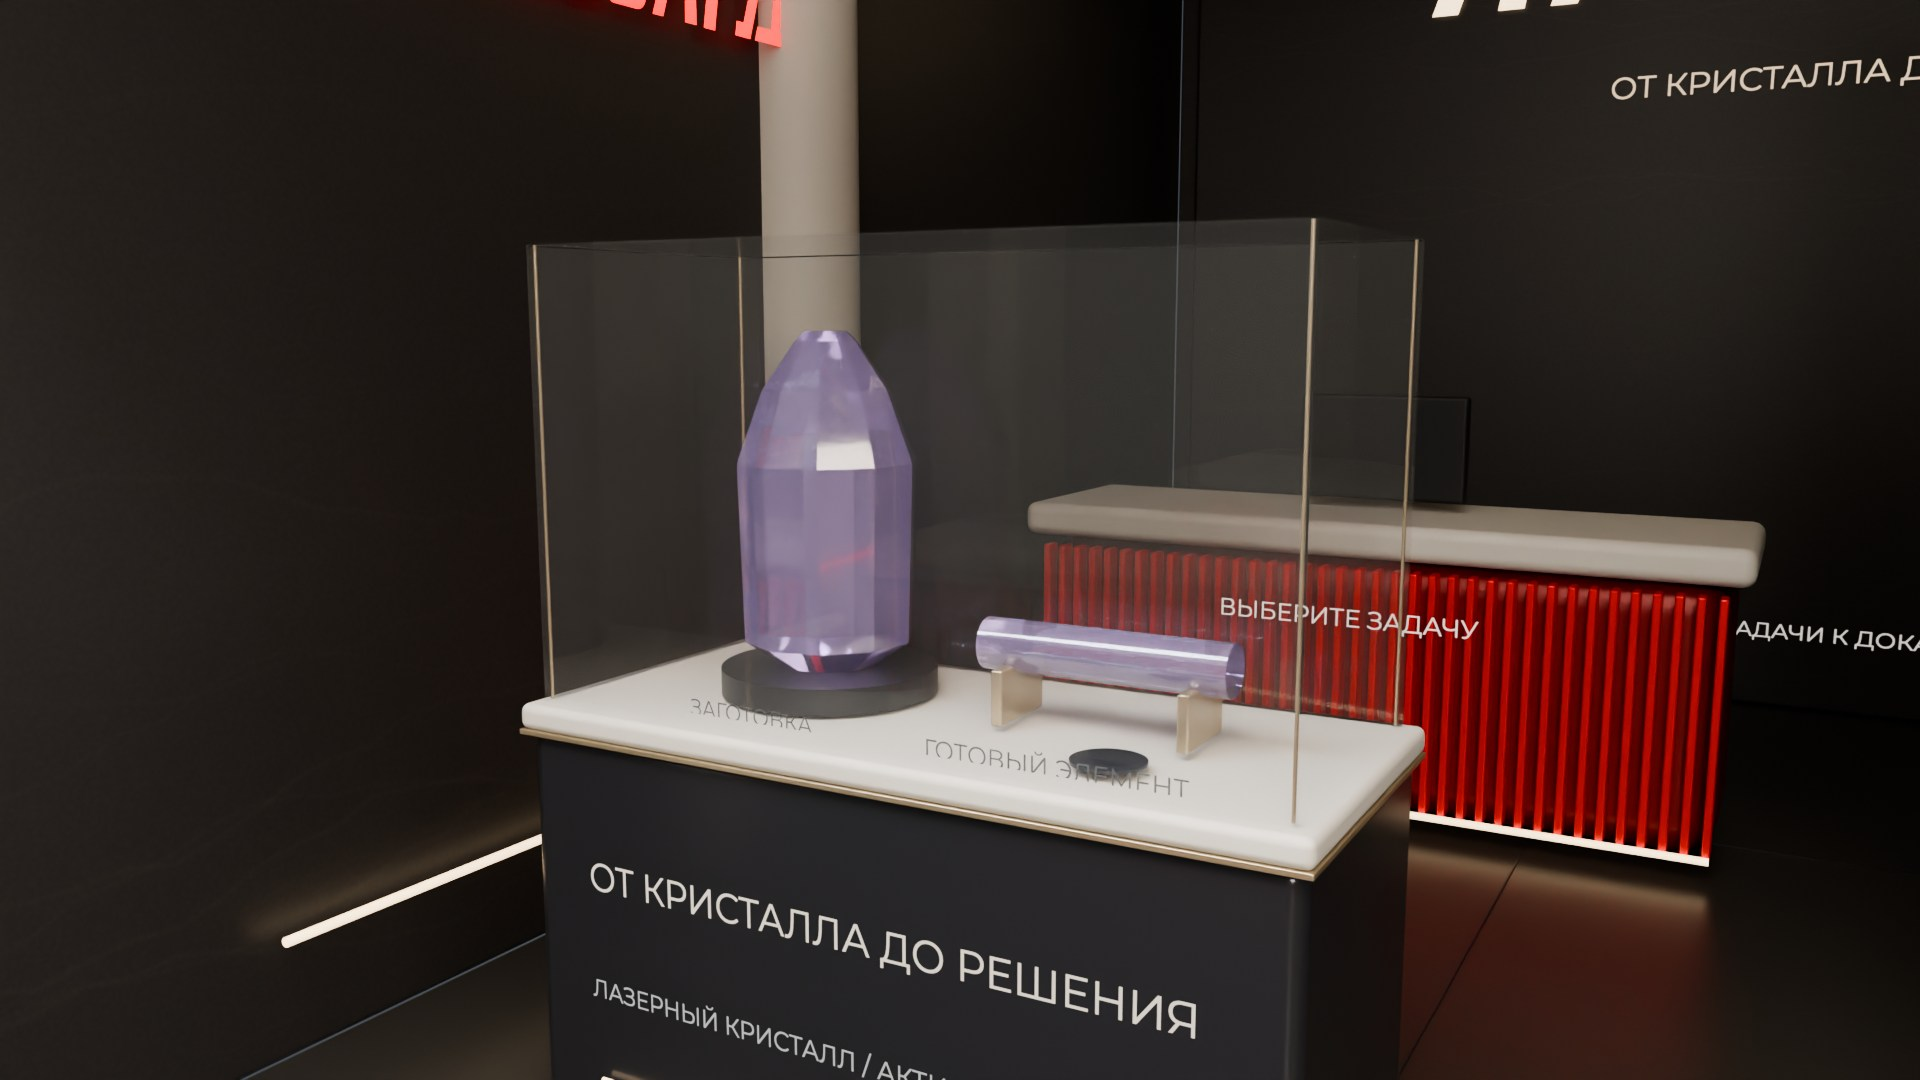
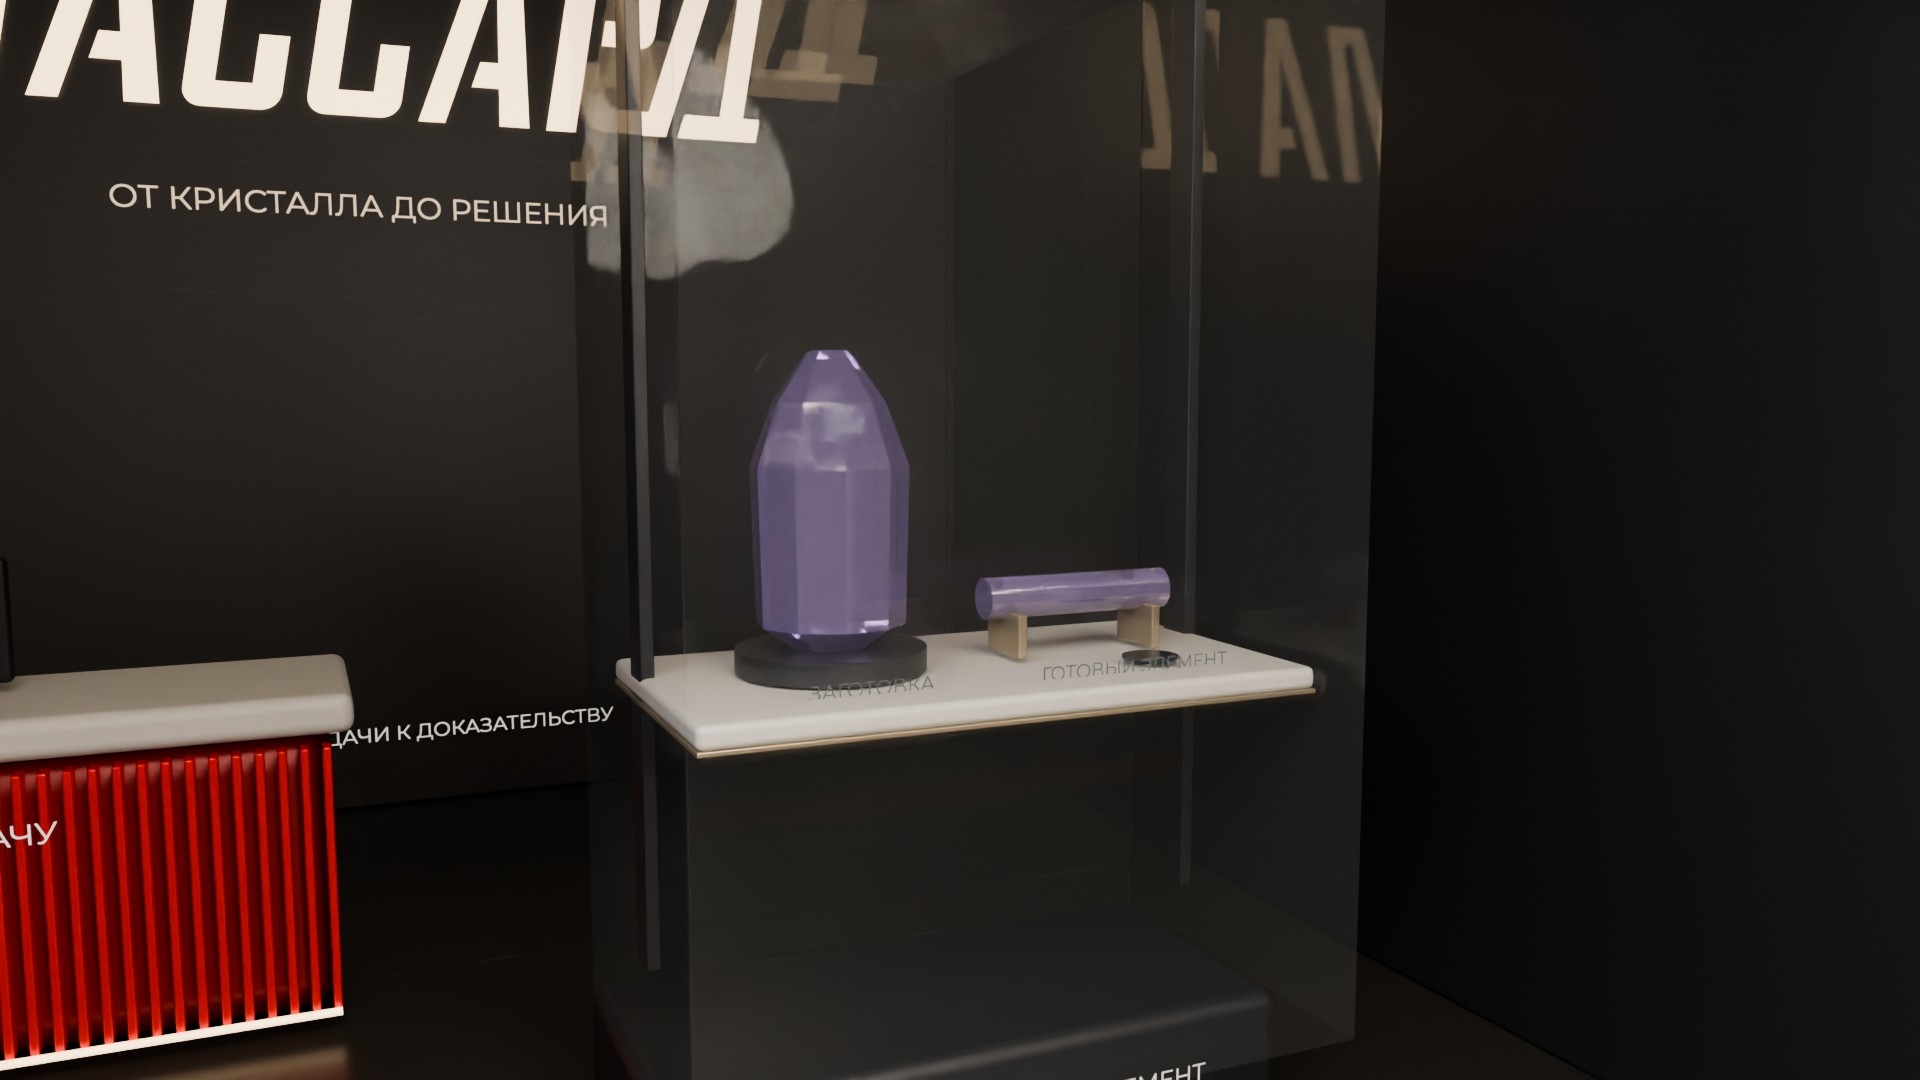
Прозрачное стекло правой витрины и обновлённый рендер

diff --git a/studio.html b/studio.html
@@ -849,6 +849,8 @@ CONTENT.roles.client.goal='Подобрать оборудование под з
 // Existing tall glass cabinet contains the optical samples; the separate low cabinet is removed.
 const crystalStands=new THREE.Group();crystalStands.name='Содержимое правой стеклянной витрины';crystalStands.position.set(4.2,.35,3.975);growthCabinet.add(crystalStands);
 const champagneMetal=mat('#b7a78b',.7,.24);
+const cabinetGlass=new THREE.MeshPhysicalMaterial({color:'#edf1f0',roughness:.025,metalness:0,transmission:.85,thickness:.006,transparent:true,opacity:.05,depthWrite:false,side:THREE.DoubleSide});
+for(const o of growthCabinet.children)if(o.name.includes('Стекло')||o.name.includes('Стеклянный торец'))o.material=cabinetGlass;
 box('Внутренняя полка для кристалла и активного элемента',0,.867,0,1.54,.055,.82,C.white,.018,crystalStands);
 box('Тонкая кромка внутренней полки',0,.835,0,1.54,.012,.82,champagneMetal,.003,crystalStands);
 for(const o of [...projectionGroup.children])if(o.name.includes('Матовая проекционная')||o===projectionMesh||o.name.includes('проектoр')||o===projector||o.name.includes('отдельное крепление'))projectionGroup.remove(o);
